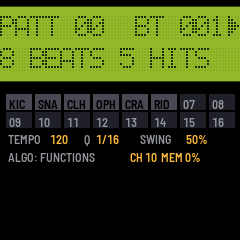
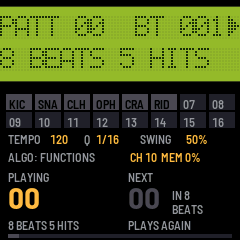
The next part or drum pattern shows as soon as it's chosen: on the LCD, and large under the strip
Turning PRESET while a part played queued the next one, but the LCD's PART showed the one playing until the change,
so the choice couldn't be seen. Now the LCD shows it queued, as the drum page's PATT already did (PART 00>01 B004),
and the screen's free foot, under the strip, shows the part playing and the next, large, with their names: the one
queued dark on a lit box, the beats to go beside it (IN 3 BEATS), and a bar along the foot filling up to the change.
With none queued, NEXT is the part again, dim (PLAYS AGAIN); in a song, this step's part and the next step's (THE
SONG ENDS after the last unless it loops). Turning back to the part playing clears the queue, as it does for the
drums.

The drum page has the same for its patterns, with their lengths and hits; in a song, the step's pattern and the
next step's (NO DRUMS for a step without); MUTED beside a part with the drums muted. Other pages leave the foot black.
The manual says so, with the SEQ page's picture of a part queued; screens.txt makes it, and checks the queue.

Changed region(s): [[0.0292, 0.7875, 0.9625, 0.9917], [0.0292, 0.7, 0.2042, 0.875], [0.525, 0.7, 0.6708, 0.875]]

diff --git a/app/ui/pages_seq.c b/app/ui/pages_seq.c
@@ -85,7 +85,14 @@ static void seq_draw(int sel_held)
         str_cat(t, "PART ");
         fmt_uint(n, sqp.part, 2, '0');
         str_cat(t, n);
-        str_cat(t, "  BT ");
+        if (sqp.next_part != 0xFFu) {        /* "PART 05>07 B003": the next queued, as the drums' PATT shows it */
+            str_cat(t, ">");
+            fmt_uint(n, sqp.next_part, 2, '0');
+            str_cat(t, n);
+            str_cat(t, " B");
+        } else {
+            str_cat(t, "  BT ");
+        }
         fmt_uint(n, sqp_beat(), 3, '0');
     }
     str_cat(t, n);
@@ -220,6 +227,157 @@ static void seq_status(void)
         cv_text(130, 58, &FONT_XS, t, C_HI);
     }
     cv_blit(0, LCD_Y + LCD_H + 10);
+}
+
+/* ---- the panel under the strip (this page and the drums'): what plays, and what comes after it, large ----
+ * PRESET queues the next part (or drum pattern) while one plays, and the LCD shows the one playing until the change:
+ * here both show (in a song, this step's and the next step's), with how far it has to go. Turning PRESET, NEXT
+ * changes at once */
+#define PANEL_Y (LCD_Y + LCD_H + 10 + STATUS_H + 2)   /* under the strip, to the screen's foot */
+#define PANEL_H (240 - PANEL_Y)
+#define PANEL_NONE 100u           /* a column's number: none (--) */
+static uint8_t panel_shown;
+
+static void panel_begin(void)
+{
+    cv_begin(240, PANEL_H, C_BLACK);
+    panel_shown = 1;
+}
+
+static void panel_end(void) { cv_blit(0, PANEL_Y); }
+
+/* another page: the panel's place black again (once) */
+static void panel_off(void)
+{
+    if (!panel_shown)
+        return;
+    panel_shown = 0;
+    cv_begin(240, PANEL_H, C_BLACK);
+    cv_blit(0, PANEL_Y);
+}
+
+/* a column: its label, a number large (PANEL_NONE: --; lit: dark on a lit box, as a track button on), and a line
+ * under it */
+static void panel_col(int32_t x, const char *label, uint32_t num, uint16_t c, int lit, const char *under)
+{
+    char n[4];
+    cv_text(x, 0, &FONT_XS, label, C_GRAY);
+    if (num < PANEL_NONE) {
+        fmt_uint(n, num, 2, '0');
+        if (lit)
+            cv_rect(x - 4, 15, text_w(&FONT_L, n) + 8, 28, c);   /* (round the digits: rows 18-38) */
+        cv_text(x, 14, &FONT_L, n, lit ? C_BLACK : c);
+    } else {
+        cv_text(x, 14, &FONT_L, "--", C_LINE);
+    }
+    if (under)
+        cv_text(x, 48, &FONT_XS, under, lit ? c : C_GRAY);
+}
+
+/* how far to the change (tick of ticks): the beats to go beside NEXT's number (counting), and a bar along the foot */
+static void panel_progress(uint32_t tick, uint32_t ticks, int counting, int queued)
+{
+    char t[12], n[8];
+    if (!ticks)
+        return;
+    if (counting && tick < ticks) {
+        uint32_t left = (ticks - tick + SQ_PPQN - 1u) / SQ_PPQN;
+        t[0] = 0;
+        str_cat(t, "IN ");
+        fmt_uint(n, left, 0, ' ');
+        str_cat(t, n);
+        cv_text(172, 18, &FONT_XS, t, queued ? C_HI : C_GRAY);
+        cv_text(172, 32, &FONT_XS, left == 1u ? "BEAT" : "BEATS", queued ? C_HI : C_GRAY);
+    }
+    cv_rect(8, PANEL_H - 6, 224, 4, C_LINE);
+    cv_rect(8, PANEL_H - 6, (int32_t)((tick < ticks ? tick : ticks) * 224u / ticks), 4, queued ? C_HI : C_DIM);
+}
+
+/* "STEP 012" */
+static void step_label(char *t, const char *what, uint32_t step)
+{
+    char n[4];
+    t[0] = 0;
+    str_cat(t, what);
+    str_cat(t, "STEP ");
+    fmt_uint(n, step + 1u, 3, '0');
+    str_cat(t, n);
+}
+
+/* a song's next step after step i (it loops: the first), or -1: the song ends */
+static int32_t song_next_step(uint32_t i)
+{
+    uint32_t steps = sq_song_steps(sqp.song);
+    return i + 1u < steps ? (int32_t)(i + 1u) : sqp.loop && steps ? 0 : -1;
+}
+
+/* a part's name, its spaces at the end gone (EMPTY PART for one with nothing) */
+static const char *part_name(char *t, uint32_t p)
+{
+    uint32_t i;
+    if (sq_part_empty(p))
+        return "EMPTY PART";
+    for (i = 0; i < SQ_NAME; i++)
+        t[i] = sq.part[p].name[i];
+    t[SQ_NAME] = 0;
+    for (i = SQ_NAME; i > 0 && t[i - 1] == ' '; i--)
+        t[i - 1] = 0;
+    return t;
+}
+
+static void seq_panel(void)
+{
+    char a[24], b[24], na[SQ_NAME + 1], nb[SQ_NAME + 1];
+    uint32_t now = PANEL_NONE, next = PANEL_NONE, tick = sqp.tick, playing = sqp.state != SQP_STOPPED;
+    uint16_t next_c = C_DIM;
+    int queued = 0;
+    const char *next_under = 0;
+    panel_begin();
+    if (ed.fn) {                  /* a function's page: its own, nothing here */
+        panel_end();
+        return;
+    }
+    a[0] = b[0] = 0;
+    str_cat(b, "NEXT");
+    if (sqp.song_mode) {
+        uint32_t i = playing ? sqp.step : seq_song_step;
+        uint8_t part, mask;
+        if (i < sq_song_steps(sqp.song)) {
+            int32_t j = song_next_step(i);
+            sq_song_step(sqp.song, i, &part, &mask);
+            now = part;
+            step_label(a, "", i);
+            if (j >= 0) {
+                sq_song_step(sqp.song, (uint32_t)j, &part, &mask);
+                next = part;
+                next_c = C_HI;
+                step_label(b, "NEXT ", (uint32_t)j);
+            } else {
+                next_under = "THE SONG ENDS";
+            }
+        } else {
+            str_cat(a, "END OF SONG");
+        }
+        if (!playing)
+            tick = 0;
+    } else {
+        now = sqp.part;
+        str_cat(a, playing ? "PLAYING" : "PART");
+        if (sqp.next_part != 0xFFu) {     /* queued: at this part's end */
+            next = sqp.next_part;
+            next_c = C_HI;
+            queued = 1;
+        } else if (playing) {             /* none: it goes round again */
+            next = sqp.part;
+            next_under = "PLAYS AGAIN";
+        } else {
+            next_under = "WHILE PLAYING";
+        }
+    }
+    panel_col(8, a, now, C_HI, 0, now < SQ_PARTS ? part_name(na, now) : 0);
+    panel_col(128, b, next, next_c, queued, next_under ? next_under : next < SQ_PARTS ? part_name(nb, next) : 0);
+    panel_progress(tick, now < SQ_PARTS ? sq_part_ticks(now) : 0u, playing && next < SQ_PARTS, queued);
+    panel_end();
 }
 
 /* the track keys' lights while SEL or REC is held: lit on, dim muted, dark empty */

diff --git a/app/ui/pages_drum.c b/app/ui/pages_drum.c
@@ -762,6 +762,78 @@ static void dr_status(void)
     cv_blit(0, LCD_Y + LCD_H + 10);
 }
 
+/* a pattern under its number: "8 BEATS 24 HITS", "8 BEATS EMPTY" */
+static const char *patt_under(char *t, uint32_t p)
+{
+    char n[8];
+    uint32_t b = hr_beats(p), h = hr_hits(p);
+    t[0] = 0;
+    fmt_uint(n, b, 0, ' ');
+    str_cat(t, n);
+    str_cat(t, b == 1u ? " BEAT " : " BEATS ");
+    if (!h) {
+        str_cat(t, "EMPTY");
+    } else {
+        fmt_uint(n, h, 0, ' ');
+        str_cat(t, n);
+        str_cat(t, h == 1u ? " HIT" : " HITS");
+    }
+    return t;
+}
+
+/* the panel under the strip (pages_seq.c's): the pattern playing and the next, large. Its own loop: PRESET queues the
+ * next for the end of the one playing; in a song, each step's pattern, the next step's after it */
+static void dr_panel(void)
+{
+    char a[24], b[24], ua[24], ub[24];
+    uint32_t now, next = PANEL_NONE, tick, ticks;
+    int running = sqp.aux || sqp.state != SQP_STOPPED, queued = 0;
+    uint16_t next_c = C_DIM;
+    const char *next_under = 0;
+    panel_begin();
+    if (dr.fn) {                  /* a function's page: its own, nothing here */
+        panel_end();
+        return;
+    }
+    a[0] = b[0] = 0;
+    str_cat(b, "NEXT");
+    if (dr_song_playing()) {      /* the song's: this step's pattern, then the next step's */
+        int32_t j = song_next_step(sqp.step);
+        now = sq_song_drums(sqp.song, sqp.step);
+        step_label(a, "", sqp.step);
+        if (j >= 0) {
+            next = sq_song_drums(sqp.song, (uint32_t)j);
+            next_c = C_HI;
+            step_label(b, "NEXT ", (uint32_t)j);
+            next_under = next < SQ_PATTERNS ? patt_under(ub, next) : "NO DRUMS";
+        } else {
+            next_under = "THE SONG ENDS";
+        }
+        tick = sqp.tick;          /* (the step goes on at its part's end) */
+        ticks = sq_part_ticks(sqp.part);
+    } else {
+        now = hrp.pattern;
+        str_cat(a, !running ? "PATTERN" : sqp.state == SQP_PLAYING && hrp.mute ? "MUTED" : "PLAYING");
+        if (hrp.next != 0xFFu) {  /* queued: at this pattern's end */
+            next = hrp.next;
+            next_c = C_HI;
+            queued = 1;
+            next_under = patt_under(ub, next);
+        } else if (running) {     /* none: it goes round again */
+            next = hrp.pattern;
+            next_under = "PLAYS AGAIN";
+        } else {
+            next_under = "WHILE PLAYING";
+        }
+        tick = running ? hrp.at : 0u;
+        ticks = hr_beats(now) * SQ_PPQN;
+    }
+    panel_col(8, a, now, C_HI, 0, now < SQ_PATTERNS ? patt_under(ua, now) : "NO DRUMS");
+    panel_col(128, b, next, next_c, queued, next_under);
+    panel_progress(tick, ticks, running && next < PANEL_NONE, queued);
+    panel_end();
+}
+
 /* the pad keys' lights: lit as they sound (and the pad a function has), dim with a sound */
 static void dr_key_lights(uint32_t *lit, uint32_t *dim)
 {

diff --git a/app/app.c b/app/app.c
@@ -1652,7 +1652,7 @@ static void progress_row(char *t, const char *unit, uint32_t n, uint32_t whole)
 
 void app_frame(void)
 {
-    static uint32_t last_status;
+    static uint32_t last_status, last_panel;
     const sds_dump_t *sd;
     uint32_t now = plat_ms();
     int32_t cursor = -1;
@@ -1713,13 +1713,21 @@ void app_frame(void)
     lcd_cursor(cursor, ed.cur);
     lcd_draw(ui.redraw);
     if (ui.redraw || now - last_status >= (ui.page == PG_DRUM ? 50u : 250u)) {   /* (the pads light as they sound) */
+        int panel = ui.redraw || now - last_panel >= 250u;   /* (under the strip: four times a second) */
         last_status = now;
-        if (ui.page == PG_SEQ)
+        if (panel)
+            last_panel = now;
+        if (ui.page == PG_SEQ) {
             seq_status();
-        else if (ui.page == PG_DRUM)
+            seq_panel();          /* (under it: the part playing and the next) */
+        } else if (ui.page == PG_DRUM) {
             dr_status();
-        else
+            if (panel)
+                dr_panel();       /* (the pattern playing and the next) */
+        } else {
             draw_status();
+            panel_off();
+        }
     }
     ui.redraw = 0;
     ann_tick(now);
@@ -1896,6 +1904,8 @@ int app_expect(const char *what, int *got)
         *got = (int)sq_song_steps(sqp.song);
     else if (!strcmp(what, "songmode"))
         *got = sqp.song_mode;
+    else if (!strcmp(what, "nextpart"))     /* the part queued for the end of the one playing, -1 none */
+        *got = sqp.next_part == 0xFFu ? -1 : (int)sqp.next_part;
     else if (!strcmp(what, "fn"))           /* the MMT-8 function shown (ALGO): 0 none, 1 LENGTH .. 9 EDIT */
         *got = ed.fn;
     else if (!strcmp(what, "sel"))          /* the tracks it takes, a bit each */

diff --git a/app/mmt8/player.h b/app/mmt8/player.h
@@ -56,7 +56,8 @@ void sqp_continue(void);
 void sqp_aux_play(int cont);      /* the clock for the drums alone, the sequencer stopped (MIDI start or continue out);
                                    * sqp_stop stops it */
 void sqp_punch(void);             /* REC while a take runs: it ends (a first take: with the transport, as stop) */
-void sqp_select_part(uint32_t p); /* at once when stopped, at the part's end while playing */
+void sqp_select_part(uint32_t p); /* at once when stopped, at the part's end while playing (the one playing: the
+                                   * queue cleared) */
 void sqp_select_song(uint32_t s);
 void sqp_resync(void);            /* the tracks changed: each track's place found again */
 void sqp_all_notes_off(void);

diff --git a/app/mmt8/player.c b/app/mmt8/player.c
@@ -173,7 +173,7 @@ void sqp_select_part(uint32_t p)
         sqp.tick = 0;
         sqp_resync();
     } else {
-        sqp.next_part = (uint8_t)p;
+        sqp.next_part = p == sqp.part ? 0xFFu : (uint8_t)p;   /* (the one playing: none queued, it goes round) */
     }
 }
 

diff --git a/app/docs/MANUAL.md b/app/docs/MANUAL.md
@@ -7,7 +7,7 @@ MIDI, plays samples sent over USB, and keeps its sequences, samples and settings
 **SM-87 hasn't run on an FM-1 yet.** It works in the host simulator and in the browser emulator, which run the same
 code. Try it in the [emulator](https://rogerkl.github.io/sm-87/emu/) first, and install it at your own risk.
 
-![SM-87 playing a part: PART 00 BT 003 on the LCD, tracks 1 and 2 lit](img/screen.png "The sequencer")
+![SM-87 playing a part: PART 00 BT 003 on the LCD, tracks 1 and 2 lit, part 00 playing large under the strip](img/screen.png "The sequencer")
 
 ---
 
@@ -68,7 +68,8 @@ sampler's dumps, as many as the file holds.
   - Real-time recording replaces a track like tape. The first take on an empty part sets its length. Recording
     starts after a bar's count-in.
   - Track mutes, saved per song step.
-  - A part chosen while playing starts at the end of the current one.
+  - A part chosen while playing starts at the end of the current one. The LCD shows it queued (`PART 00>01 B004`),
+    and under the strip the part playing and the next show large, with the beats to go until the change.
   - Per-track MIDI channel, or UNCHANGED.
   - MIDI echo to the record track's channel.
   - MIDI clock and song position out, and MIDI clock in: the sequencer can follow another's clock and transport.
@@ -105,7 +106,7 @@ sampler's dumps, as many as the file holds.
 | REC | Arm recording on the part's lowest empty track (or the one chosen with REC + its key); again: disarm; while a take runs: punch out |
 | SEL + first 8 white keys | Track mutes (on the SEQ page; in a song: the step's mutes); the 9th: the drums on or muted |
 | REC + first 8 white keys | The record track |
-| PRESET | The part or song (SEQ page), else the sampler's program |
+| PRESET | The part or song (SEQ page; while a part plays, the next, queued for its end), else the sampler's program |
 | K1 / K2 (SEQ) | Tempo / the record track's channel (UNCHANGED, 1-16) |
 | K4 (SEQ) | The drum pattern that plays with the parts; in a song (stopped): the step's drum pattern, or none (the step's row shows it: `P05 12345678 D07`, `D--` none) |
 | ALGO (SEQ) | The MMT-8's functions, below; SEQ goes back to the part or song |
@@ -118,6 +119,17 @@ sampler's dumps, as many as the file holds.
 | HOME | The sampler's overview |
 | GLO | MIDI: K1 the sampler's channel, K2 its mode (OMNI OFF, ON, MULTI), K3 the pitch bend's range, K4 the drums' channel. GLO again: the MIX (below) |
 | SAVE | Lit when something isn't saved: settings, the sample parameters, the sequencer (stopped) |
+
+**Under the strip on the SEQ page**, the part playing and the one after it, large, with their names (the drum page
+has the same for its patterns):
+
+![The SEQ page with part 01 queued while part 00 plays: PART 00>01 B004 on the LCD, and under the strip NEXT 01 lit, in 2 beats](img/seq.png "The next part queued")
+
+- **PLAYING** (stopped: **PART**) and **NEXT**. Turning PRESET while a part plays queues the next part; NEXT shows it
+  at once, lit, with the beats to go (`IN 3 BEATS`), and the bar along the foot fills up to the change. Turning
+  back to the part playing clears it. With none queued, NEXT is the same part, dim: it `PLAYS AGAIN`.
+- **In a song:** the step and its part, then the next step and its part (`THE SONG ENDS` after the last, unless the
+  song loops).
 
 ### MIDI modes (GLO)
 
@@ -151,10 +163,13 @@ already sounding too, and are kept in the settings (SAVE).
 
 ### The drum machine (ARP)
 
-![The drum page playing a pattern: PATT 00 BT 001, 8 BEATS 5 HITS, the pads KIC SNA CLH OPH CRA RID](img/drums.png "The drum machine")
+![The drum page playing a pattern: PATT 00 BT 001, 8 BEATS 5 HITS, the pads KIC SNA CLH OPH CRA RID, and pattern 00 playing large under the strip](img/drums.png "The drum machine")
 
 The LCD shows the pattern and its beat (`PATT 05  BT 003`, `PATT 05>07` with 07 queued), then its length and hits,
-or while recording the quantize and swing. The strip shows the 16 pads, lit as they sound.
+or while recording the quantize and swing. The strip shows the 16 pads, lit as they sound. Under it, as on the SEQ
+page, the pattern playing and the next show large, with their lengths and hits: a pattern queued with PRESET lit,
+with the beats to go (`IN 3 BEATS`); in a song, the step's pattern and the next step's (`NO DRUMS` for a step
+without). The drums muted beside a part show `MUTED`.
 
 | | |
 |---|---|

diff --git a/app/site/landing.md b/app/site/landing.md
@@ -6,7 +6,7 @@ SM-87 turns the M-VAVE FM-1 into a 1987 studio: an Alesis MMT-8 style sequencer 
 Akai S700/X7000 style sampler and an Alesis HR-16 style drum machine. Record from the keys or from MIDI, send samples
 over USB from [Axs7](https://rogerkl.github.io/Axs7/), and trade memory dumps with a real MMT-8 or HR-16.
 
-![SM-87 playing a part: PART 00 BT 003 on the LCD, tracks 1 and 2 lit](manual/img/screen.png "SM-87 on the FM-1's screen")
+![SM-87 playing a part: PART 00 BT 003 on the LCD, tracks 1 and 2 lit, part 00 playing large under the strip](manual/img/screen.png "SM-87 on the FM-1's screen")
 
 This is version {{VERSION}}. **SM-87 hasn't run on an FM-1 yet**: it works in the emulator, which runs the same code,
 so try it there first. You install it at your own risk, and the installer can put M-VAVE's own firmware back.
